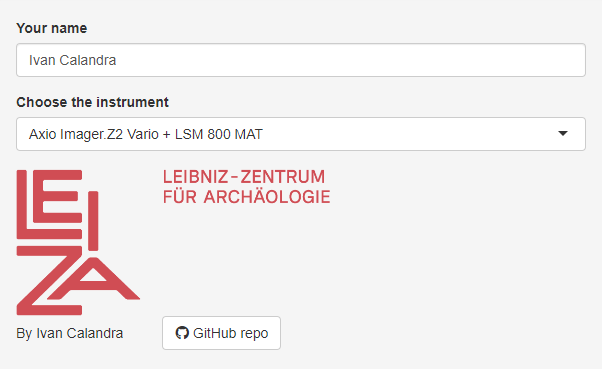
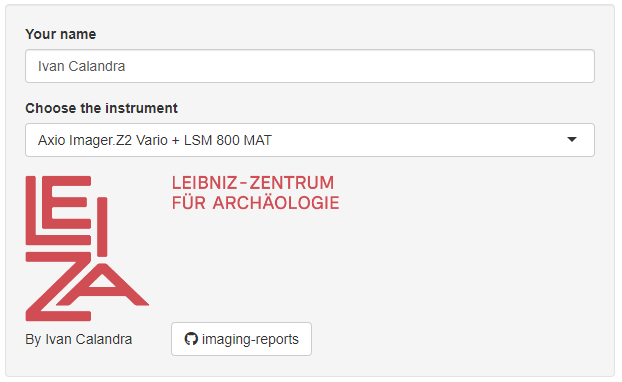
- Added: Axio Lab.A1 to README - Added: subheaders for instruments in README - Changed: export names for graphs

diff --git a/README.md b/README.md
@@ -17,10 +17,26 @@
     - [Side bar](#side-bar)
     - [Tab "General"](#tab-general)
     - [Tab "Objectives"](#tab-objectives)
+        - [Axio Imager.Z2 Vario + LSM 800 MAT](#axio-imagerz2-vario--lsm-800-mat)
+        - [Smartzoom 5](#smartzoom-5)
+        - [Axio Scope.A1](#axio-scopea1)
+        - [Axio Lab.A1](#axio-laba1)
+        - [Lateral optical resolution](#lateral-optical-resolution)
     - [Tab "Acquisition"](#tab-acquisition)
+        - [Axio Imager.Z2 Vario + LSM 800 MAT](#axio-imagerz2-vario--lsm-800-mat)
+        - [Smartzoom 5](#smartzoom-5)
+        - [Axio Scope.A1](#axio-scopea1)
+        - [Axio Lab.A1](#axio-laba1)
     - [Tab "Pre-processing"](#tab-pre-processing)
+        - [Axio Imager.Z2 Vario + LSM 800 MAT](#axio-imagerz2-vario--lsm-800-mat)
+        - [Smartzoom 5](#smartzoom-5)
+        - [Axio Scope.A1 and Axio Lab.A1](#axio-scopea1-and-axio-laba1)
     - [Tab "Abbreviations"](#tab-abbreviations)
     - [Tab "Report"](#tab-report)
+        - [Axio Imager.Z2 Vario + LSM 800 MAT](#axio-imagerz2-vario--lsm-800-mat)
+        - [Smartzoom 5](#smartzoom-5)
+        - [Axio Scope.A1](#axio-scopea1)
+        - [Axio Lab.A1](#axio-laba1)
 - [How to adapt the App](#how-to-adapt-the-app)
 - [How to contribute](#how-to-contribute)
 - [License](#license)
@@ -47,7 +63,7 @@ Once all fields are entered, **the report can be exported to an ODS or XLSX file
 **This report can and should be published together with the image data.** While publishing them as a supplementary material to a paper is OK, I recommend publishing everything in open access on an online repository like [Zenodo](https://zenodo.org/), [Figshare](https://figshare.com/) or [OSF](https://osf.io/) for easy and long-term accessibility. Additionally or alternatively, the report could be attached to a protocol, for example on [protocols.io](https://www.protocols.io/).  
 For more details, **check my repo** [**publish-micro-image**](https://github.com/ivan-paleo/publish-micro-image).
 
-The App is designed for the instruments available at the [IMPALA](https://www.leiza.de/forschung/infrastrukturen/labore/impala) and currently includes the digital microscope (Zeiss Smartzoom 5), the upright light microscope + LSCM (Zeiss Axio Imager.Z2 Vario + LSM 800 MAT, abbreviated "LSM") and the reflected light microscope (Zeiss Axio Scope.A1). More instruments will be added later.
+The App is designed for the instruments available at the [IMPALA](https://www.leiza.de/forschung/infrastrukturen/labore/impala) and currently includes the digital microscope (Zeiss Smartzoom 5), the upright light microscope + LSCM (Zeiss Axio Imager.Z2 Vario + LSM 800 MAT, abbreviated "LSM"), the reflected light microscope (Zeiss Axio Scope.A1) and the transmitted light microscope (Zeiss Axio Lab.A1). More instruments will be added later.
 
 If you would like to adapt the App to your instrument(s), check the sections [How to adapt the App](#how-to-adapt-the-app), [How to contribute](#how-to-contribute) and [License](#license).
 
@@ -100,16 +116,16 @@ There are two ways to get the App:
 # Operating instructions
 ## Introduction
 - In a strict sense, none of the fields are required. Yet, it is important that **you fill as many fields as possible**. Unedited fields will be filled with default values, so make sure you change them in case you did not apply default values.  
-- Some information that will be included in the report (see tab [Report](#tab-report)) is hard coded and does not depend on your input because it depends on the hardware only. Because of that (and other things), make sure you **use the latest version of the App**.  
+- Some information that will be included in the report (see tab [Report](#tab-report)) is hard coded and does not depend on your input because it depends on the hardware only. Because of that (and also developments and bug fixes), make sure you **use the latest version of the App**.  
 - **Every entered information summarizes all acquisitions about which you are reporting.** Therefore, do not fill the forms for every single acquisition bur rather for all acquisitions of a project. Metadata for every acquisition should be made accessible with the acquisition files themselves (see repo [publish-micro-image](https://github.com/ivan-paleo/publish-micro-image)).
-- While it is possible to jump from any tab to any other, conditional input (i.e. input based on other input) might not update correctly. Therefore, I recommend that you **start in the side bar and then fill in every tab from left (tab [General](#tab-general)) to right (tab [Pre-processing](#tab-pre-processing))**. The tab [Report](#tab-report) can be consulted any time to check how the output will look like, but you might get some errors until you have filled in all tabs.  
+- While it is possible to jump from any tab to any other, conditional input (i.e. input based on other input) might not update correctly. Therefore, I recommend that you **start in the [side bar](#side-bar) and then fill in every tab from left (tab [General](#tab-general)) to right (tab [Pre-processing](#tab-pre-processing))**. The tab [Report](#tab-report) can be consulted any time to check how the output will look like, but you might get some errors until you have filled in all tabs.  
 - **You can save the settings for one instrument at a time.**  
 - **Refer to the instrument's user manual if you need information about the settings.**
 
 
 ## Side bar
 **Enter your name and select the instrument you used from the list.**  
-Start again at the tab "General" if you switch to another instrument.
+Start again at the tab [General](#tab-general) if you switch to another instrument.
 
 Click on the GitHub button to access the repository with the source code.
 
@@ -136,17 +152,18 @@ Tick the boxes for all acquisition modes you used.
 ></p>
 
 ><p align="center" width="100%">
->    <img src="screenshots/app_general_AS_filled.png"><br>
->    <i>General tab for the Axio Scope.A1.</i>
+>    <img src="screenshots/app_general_AS-AL_filled.png"><br>
+>    <i>General tab for the Axio Scope.A1 and Axio Lab.A1.</i>
 ></p>
 
 
 ## Tab "Objectives"
 **Select from the list how each objective has been used.**  
 
-On the Axio Imager.Z2 Vario + LSM 800 MAT:  
+### Axio Imager.Z2 Vario + LSM 800 MAT 
 
-- Several uses can be assigned to every objective. To do so, click on every relevant use from the list. 
+- Several uses can be assigned to every objective. To do so, click on every relevant use from the list.  
+- `Color image` here is meant in the widest sense to refer to any WF image acquired with the camera, even in black & white mode, with any color filter or with any contrast method (bright field, polarization, dark field, C-DIC). `3D topography` refers to an LSM acquisition. Other choices are `Preview scan` and `Coordinate system`.  
 - After selection, click on a use and press `DELETE` to unassign it. Make sure that at least one use is assigned to each objective (select `Not used` if you have not used a given objective).
 
 ><p align="center" width="100%">
@@ -154,22 +171,34 @@ On the Axio Imager.Z2 Vario + LSM 800 MAT:
 >    <i>Objectives tab for the Axio Imager.Z2 Vario + LSM 800 MAT.</i>
 ></p>
 
-On the Smartzoom 5: by default, none of the objectives has been used, so make sure you assign a use to at least one objective.
+### Smartzoom 5
+By default, none of the objectives has been used, so make sure you assign a use to at least one objective.  
+See [Axio Imager.Z2 Vario + LSM 800 MAT](#axio-imagerz2-vario--lsm-800-mat) for details on choices of uses.
 
 ><p align="center" width="100%">
 >    <img src="screenshots/app_objectives_SZ.png"><br>
 >    <i>Objectives tab for the Smartzoom 5.</i>
 ></p>
 
-It works the same way on the Axio Scope.A1.
+### Axio Scope.A1
+See [Smartzoom 5](#smartzoom-5).
 
 ><p align="center" width="100%">
 >    <img src="screenshots/app_objectives_AS.png"><br>
 >    <i>Objectives tab for the Axio Scope.A1.</i>
 ></p>
 
-Below the fields to assign uses to objectives, a barplot shows the lateral optical resolutions of each used objective. For the Axio Imager.Z2 Vario + LSM 800 MAT, you have the choice for the wavelength of the light source (`Violet laser (405 nm) - LSM` for the LSM 800 MAT or `White LED (550 nm) - WF` for the Axio Imager.Z2 Vario) but only the latter is available for the Smartzoom 5.  
-The graph can be exported to PDF or PNG using the buttons below.
+### Axio Lab.A1
+See [Smartzoom 5](#smartzoom-5).
+
+><p align="center" width="100%">
+>    <img src="screenshots/app_objectives_AL.png"><br>
+>    <i>Objectives tab for the Axio Lab.A1.</i>
+></p>
+
+### Lateral optical resolution
+Below the fields to assign uses to objectives, a barplot shows the lateral optical resolutions of each used objective. For the Axio Imager.Z2 Vario + LSM 800 MAT, you have the choice for the wavelength of the light source (`Violet laser (405 nm) - LSM` for the LSM 800 MAT or `White LED (550 nm) - WF` for the Axio Imager.Z2 Vario) but only the latter is available on the other instruments.  
+The graph can be exported to PDF (vector) or PNG (raster) using the buttons below.
 
 ><p align="center" width="100%">
 >    <img src="screenshots/app_objectives_resolution.png"><br>
@@ -180,7 +209,7 @@ The graph can be exported to PDF or PNG using the buttons below.
 ## Tab "Acquisition"
 In case of acquisitions for which no settings can be defined (e.g. simple 2D), the message "No input required" will be displayed in the tab. If you did define some settings, either you did acquire using a different mode and you therefore need to tick the corresponding boxes in the tab [General](#tab-general), or some settings are actually related to pre-processing (especially in case of the Smartzoom 5, see tab [Pre-processing](#tab-pre-processing)).
 
-On the Axio Imager.Z2 Vario + LSM 800 MAT:  
+### Axio Imager.Z2 Vario + LSM 800 MAT  
 
 - Choose the type of illumination: reflected or transmitted.  
 
@@ -189,7 +218,7 @@ On the Axio Imager.Z2 Vario + LSM 800 MAT:
 >    <i>Acquisition tab for the Axio Imager.Z2 Vario + LSM 800 MAT.</i>
 ></p>
 
-- In case of an LSM acquisition ("3D topography"): 
+- In case of an LSM acquisition (`3D topography`): 
 
   - Enter the information for the objective used for this type of acquisition.    
   - Tick the box `Pinhole diameter = 1 AU` to confirm that the pinhole diameter was set properly.  
@@ -202,18 +231,30 @@ On the Axio Imager.Z2 Vario + LSM 800 MAT:
 >    <i>Warning about square pixels for the Axio Imager.Z2 Vario + LSM 800 MAT.</i>
 ></p> 
 
-On the Smartzoom 5: the only thing to choose is the z-stack mode (`Continuous` or `Stepwise`) in case of an EDF/3D acquisition. 
+### Smartzoom 5
+The only thing to choose is the z-stack mode (`Continuous` or `Stepwise`) in case of an EDF/3D acquisition. 
 
 ><p align="center" width="100%">
 >    <img src="screenshots/app_acq_SZ.png"><br>
 >    <i>Acquisition tab for the Smartzoom 5.</i>
 ></p>
 
-On the Axio Scope.A1: the only thing to choose is the panorama mode (`Automatic` or `Interactive`) in case of a panorama acquisition. 
+### Axio Scope.A1
+Choose the reflector (`Epi BF` or `Epi C-DIC`).  
+In case of a panorama acquisition, choose the panorama mode (`Automatic` or `Interactive`). 
 
 ><p align="center" width="100%">
 >    <img src="screenshots/app_acq_AS.png"><br>
 >    <i>Acquisition tab for the Axio Scope.A1.</i>
+></p>
+
+### Axio Lab.A1
+Tick the boxes for the polarization lenses (`Polarizer`, `Analyzer` or `Bertrand lens`) that you used, if any.  
+In case of a panorama acquisition, choose the panorama mode (`Automatic` or `Interactive`). 
+
+><p align="center" width="100%">
+>    <img src="screenshots/app_acq_AL.png"><br>
+>    <i>Acquisition tab for the Axio Lab.A1.</i>
 ></p>
 
 
@@ -228,19 +269,24 @@ Some acquisition modes do not require pre-processing (e.g. 2D on all instruments
 
 Different fields to fill in appear depending on instrument used and on the acquisition modes applied.
 
+### Axio Imager.Z2 Vario + LSM 800 MAT
+There are many settings related to EDF, stitching and 3D topography. In most cases, default values can be used.
+
 ><p align="center" width="100%">
 >    <img src="screenshots/app_pre-proc_LSM.png"><br>
 >    <i>Pre-processing tab for the Axio Imager.Z2 Vario + LSM 800 MAT.</i>
 ></p>
 
-Specific to the Smartzoom 5, only settings related to stitching require input.
+### Smartzoom 5
+Only settings related to stitching require input.
 
 ><p align="center" width="100%">
 >    <img src="screenshots/app_pre-proc_SZ.png"><br>
 >    <i>Pre-processing tab for the Smartzoom 5.</i>
 ></p>
 
-For the Axio Scope.A1 and Axio Lab.A1: Pre-processing settings cannot be reported yet. WIP.
+### Axio Scope.A1 and Axio Lab.A1
+Pre-processing settings cannot be reported yet. WIP.
 
 ><p align="center" width="100%">
 >    <img src="screenshots/app_pre-proc_AS-AL.png"><br>
@@ -265,19 +311,32 @@ Once done, click on the `Download Report to ODS` or `Download Report to XLSX` bu
 
 **Save one report for each instrument you used.**
 
+### Axio Imager.Z2 Vario + LSM 800 MAT
+
 ><p align="center" width="100%">
 >    <img src="screenshots/app_report_LSM.png"><br>
 >    <i>Example report with the Axio Imager.Z2 Vario + LSM 800 MAT.</i>
 ></p>
+
+### Smartzoom 5
 
 ><p align="center" width="100%">
 >    <img src="screenshots/app_report_SZ.png"><br>
 >    <i>Example report with the Smartzoom 5.</i>
 ></p>
 
+### Axio Scope.A1
+
 ><p align="center" width="100%">
 >    <img src="screenshots/app_report_AS.png"><br>
 >    <i>Example report with the Axio Scope.A1.</i>
+></p>
+
+### Axio Lab.A1
+
+><p align="center" width="100%">
+>    <img src="screenshots/app_report_AL.png"><br>
+>    <i>Example report with the Axio Lab.A1.</i>
 ></p>
 
 
